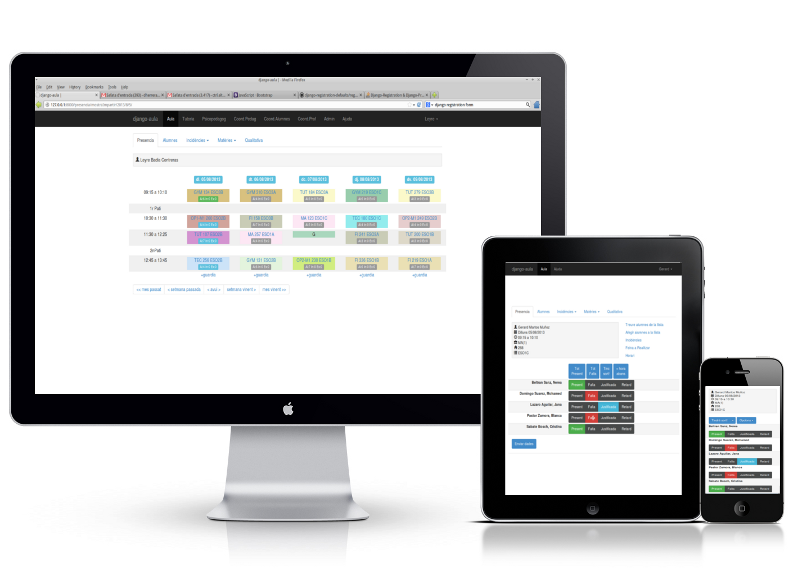
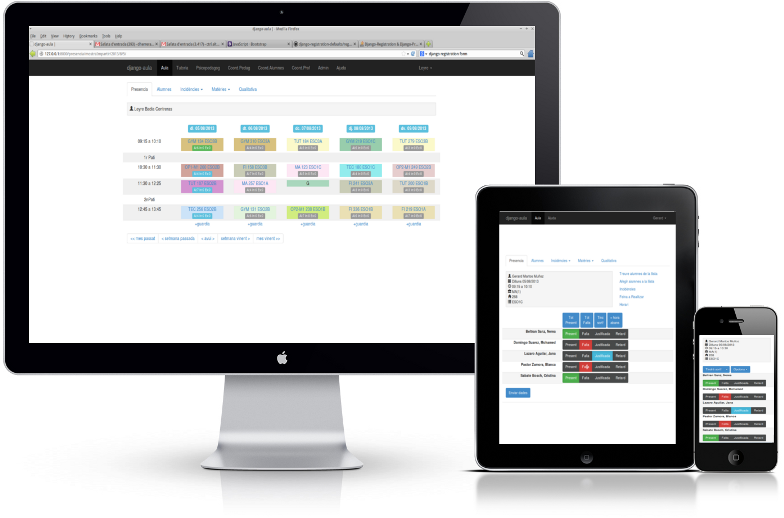
Web demo

diff --git a/demo/static-web/demo/index.html b/demo/static-web/demo/index.html
@@ -39,7 +39,7 @@
   	
 
 
-  	<div class="row" id="coneix">
+  	<div class="row" id="coneix2">
 
 	    <div class="col-lg-10">
 	    	<img src="desktop-tablet-phone.png">
@@ -48,7 +48,7 @@
 	    <div class="col-lg-2">	    	
 			<div class="alert alert-success">Passa llista comodament des de l'smart phone gràcies a la interfície "responsiva".</div>
 			<div>
-	  		   <a class="btn btn-primary btn-large" style="width: 100%;" data-toggle="modal" href="/">Demo</a>
+	  		   <a class="btn btn-primary" style="margin-bottom:15px; width: 100%;" href="/">Demo</a>
 	  		</div>
 		</div>  		
 
